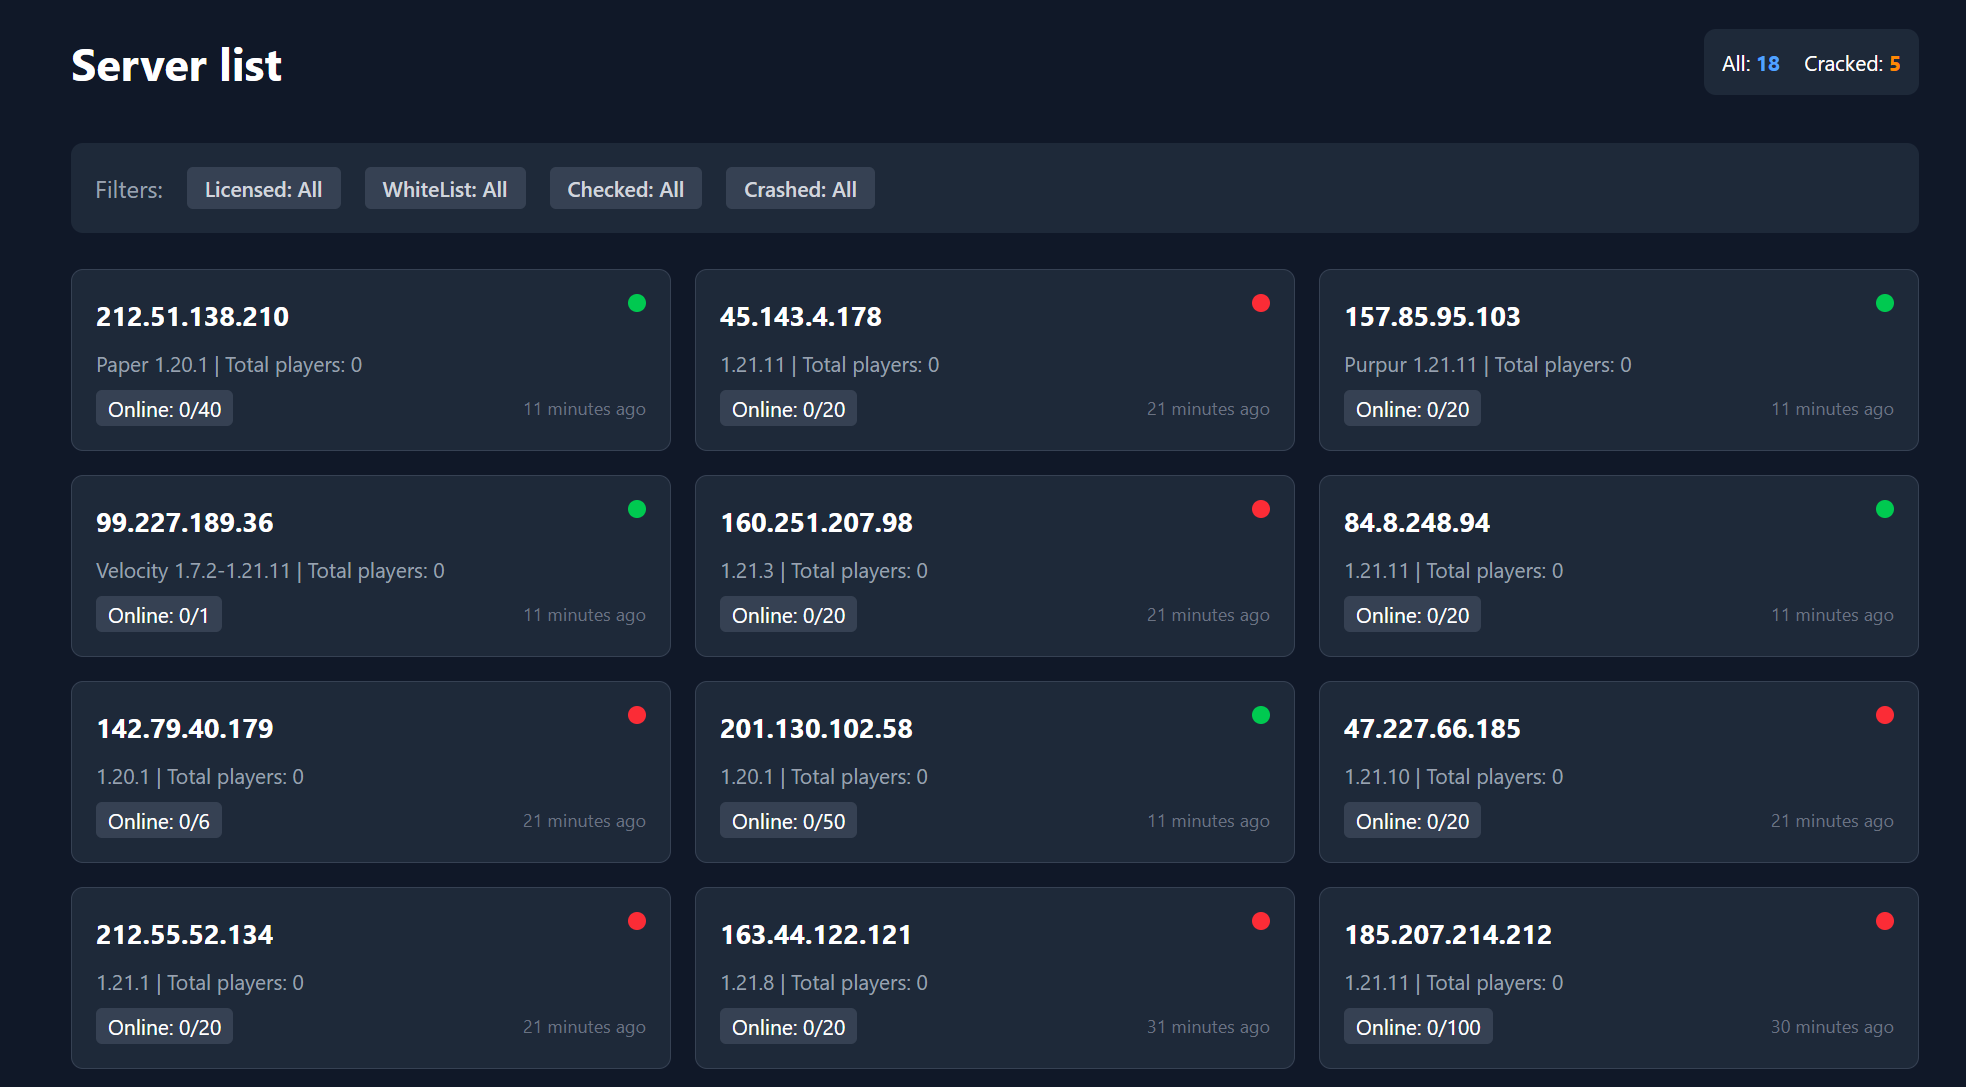
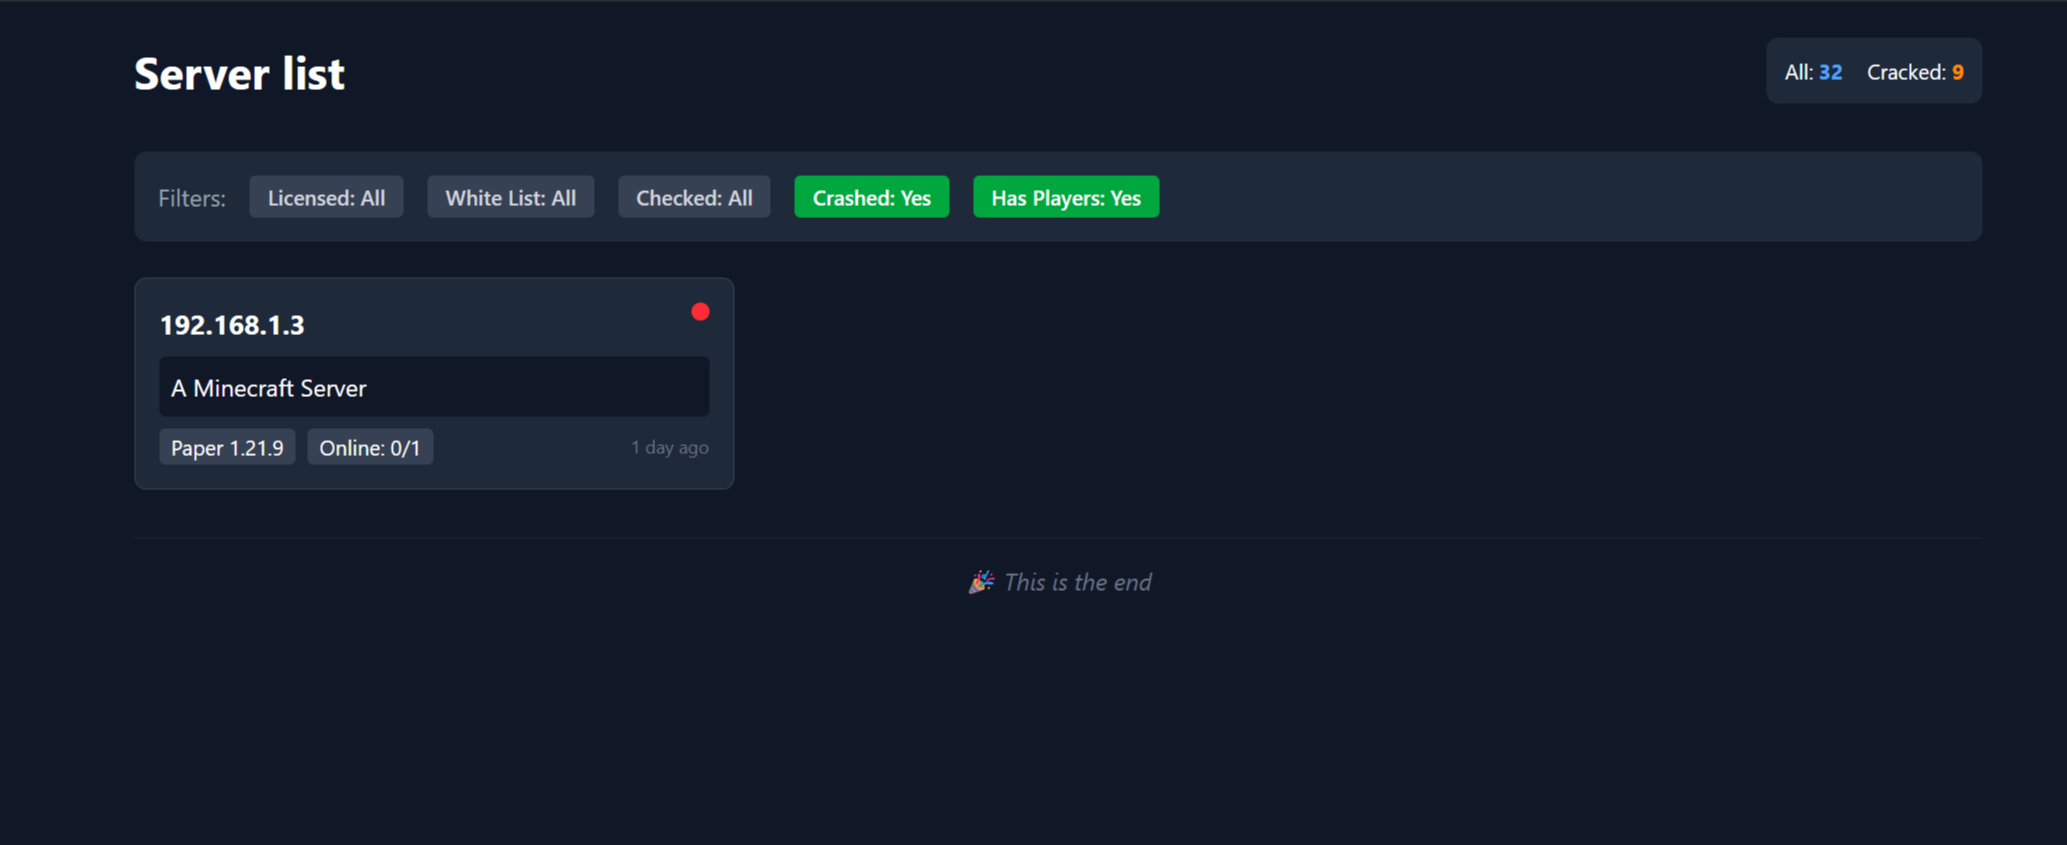
filter has_players | white_list status | show motd in dashboard

diff --git a/frontend/src/pages/Dashboard.tsx b/frontend/src/pages/Dashboard.tsx
@@ -15,6 +15,7 @@ export const Dashboard = () => {
         checked: null,
         auth_me: null,
         crashed: null,
+        has_players: null,
     });
 
     const { data: stats } = useQuery({
@@ -98,9 +99,10 @@ export const Dashboard = () => {
             <div className="mb-6 p-4 bg-gray-800 rounded-lg flex flex-wrap gap-4 items-center">
                 <span className="text-gray-400">Filters:</span>
                 <FilterButton label="Licensed" field="licensed" />
-                <FilterButton label="WhiteList" field="white_list" />
+                <FilterButton label="White List" field="white_list" />
                 <FilterButton label="Checked" field="checked" />
                 <FilterButton label="Crashed" field="crashed" />
+                <FilterButton label="Has Players" field="has_players" />
             </div>
 
             {isLoading ? (
@@ -124,17 +126,24 @@ export const Dashboard = () => {
                                         <h3 className="font-bold text-lg truncate">{server.ip}</h3>
                                         <span className={`w-3 h-3 rounded-full ${server.was_online ? 'bg-green-500' : 'bg-red-500'}`}></span>
                                     </div>
-                                    <div className="text-sm text-gray-400 mb-2">
-                                        {server.version_name} | Total players: {server.unique_players}
-                                    </div>
-                                    <div className="flex justify-between items-center text-sm">
+                                    <div 
+                                        className="prose prose-invert prose-sm max-w-none bg-gray-900 p-2 rounded mb-2"
+                                        dangerouslySetInnerHTML={{ __html: server.description_html }} 
+                                    />
+                                <div className="flex justify-between items-center text-sm">
+                                    <div className="flex gap-2"> 
                                         <span className="bg-gray-700 px-2 py-0.5 rounded text-white">
-                                            Online: {server.online}/{server.max}
+                                            {server.version_name}
                                         </span>
-                                        <span className="text-xs text-gray-500">
-                                            {formatDistanceToNow(new Date(server.updated), { addSuffix: true, locale: enUS })}
+                                        <span className="bg-gray-700 px-2 py-0.5 rounded text-white">
+                                            Online: {server.online}/{server.unique_players}
                                         </span>
                                     </div>
+
+                                    <span className="text-xs text-gray-500">
+                                        {formatDistanceToNow(new Date(server.updated), { addSuffix: true, locale: enUS })}
+                                    </span>
+                                </div>
                                 </Link>
                             );
                         })

diff --git a/frontend/src/pages/ServerDetail.tsx b/frontend/src/pages/ServerDetail.tsx
@@ -79,6 +79,10 @@ export const ServerDetail = () => {
                                 <span>Licensed:</span>
                                 <span>{server.license ? "Yes" : "No"}</span>
                             </div>
+                            <div className="flex justify-between border-b border-gray-700 pb-2">
+                                <span>White list:</span>
+                                <span>{server.white_list === null ? 'None' : server.white_list ? 'Yes' : 'No'}</span>
+                            </div>
                         </div>
 
                         <div className="mt-6 space-y-2">

diff --git a/frontend/src/types.ts b/frontend/src/types.ts
@@ -25,6 +25,7 @@ export interface ServerListRequest {
     checked?: boolean | null;
     auth_me?: boolean | null;
     crashed?: boolean | null;
+    has_players?: boolean | null;
 }
 
 export interface ServerDataRequest {

diff --git a/backend/src/api/fetch_server_list.rs b/backend/src/api/fetch_server_list.rs
@@ -21,6 +21,7 @@ pub struct ServerRequest {
     pub checked: Option<bool>,
     pub auth_me: Option<bool>,
     pub crashed: Option<bool>,
+    pub has_players: Option<bool>,
 }
 
 pub async fn fetch_server_list(
@@ -66,6 +67,13 @@ pub async fn fetch_server_list(
         None => Box::new(diesel::dsl::sql::<Bool>("TRUE")),
     };
 
+    let has_players_filter: Box<dyn BoxableExpression<_, Pg, SqlType = Bool>> =
+        match body.has_players {
+            Some(true) => Box::new(servers::unique_players.gt(0)),
+            Some(false) => Box::new(servers::unique_players.eq(0)),
+            None => Box::new(diesel::dsl::sql::<Bool>("TRUE")),
+        };
+
     let results = servers::table
         .inner_join(data::table.on(data::server_id.eq(servers::id)))
         .filter(pagination_filter)
@@ -74,6 +82,7 @@ pub async fn fetch_server_list(
         .filter(checked_filter)
         .filter(auth_me_filter)
         .filter(crashed_filter)
+        .filter(has_players_filter)
         .order((servers::id.desc(), data::id.desc()))
         .distinct_on(servers::id)
         .select((ServerModel::as_select(), DataModel::as_select()))
